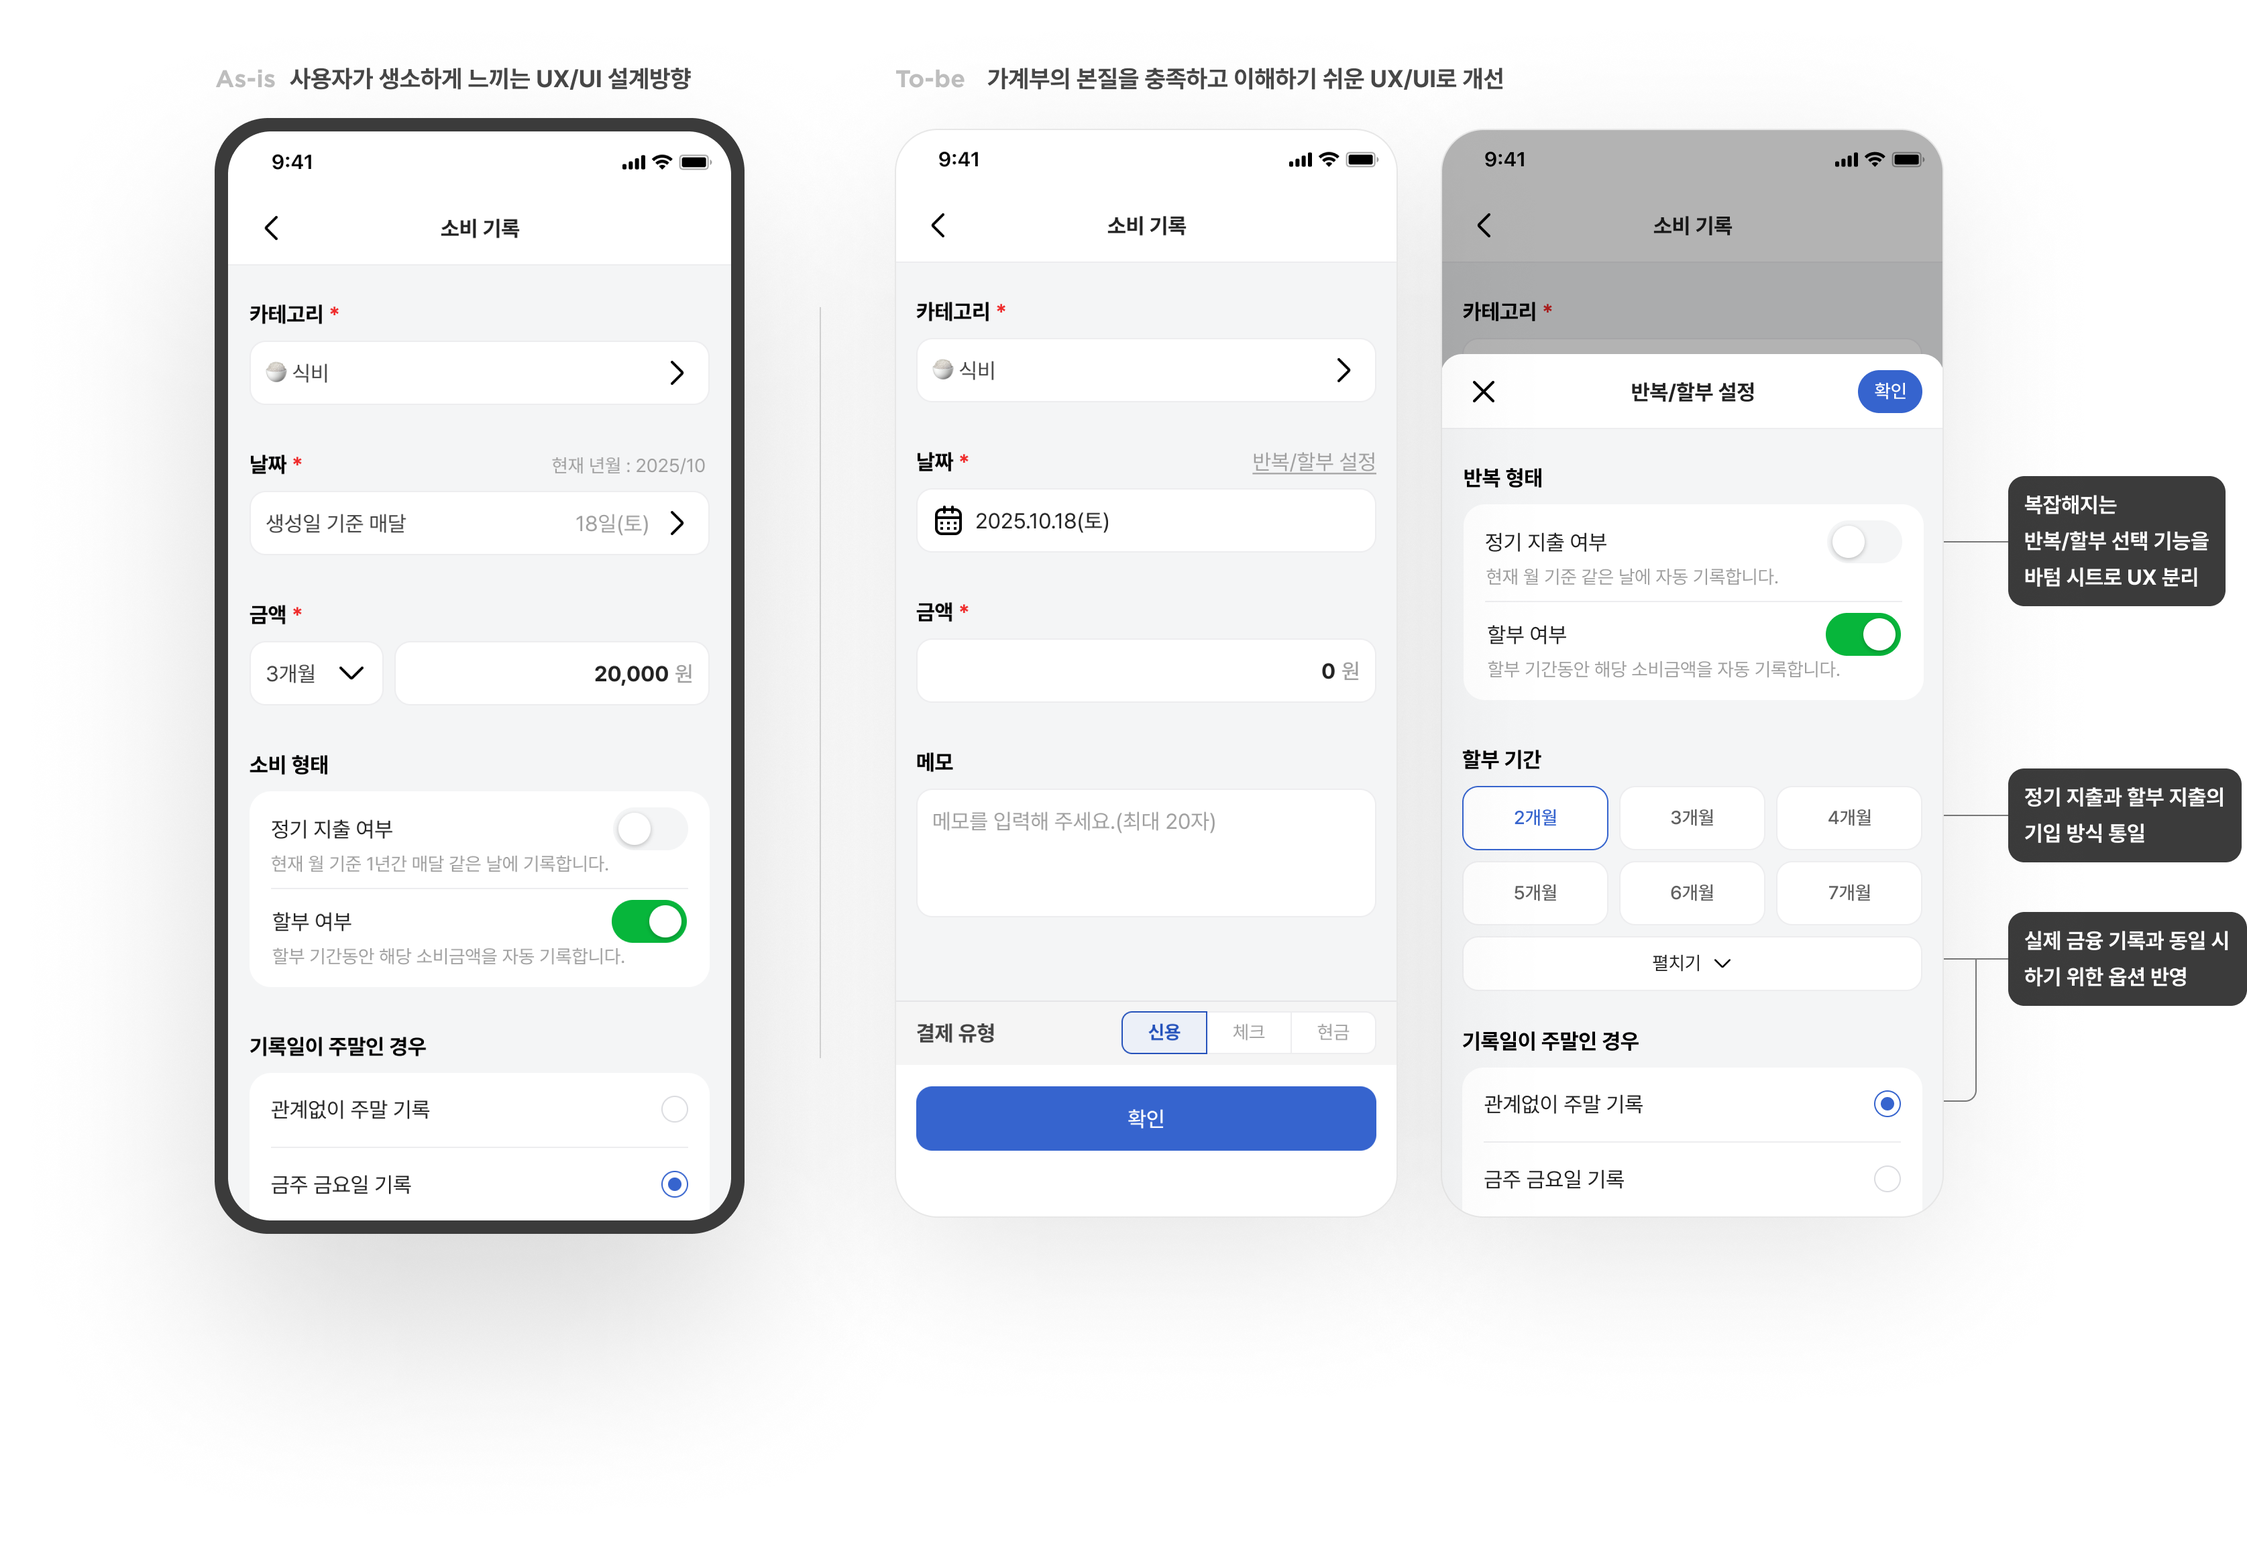
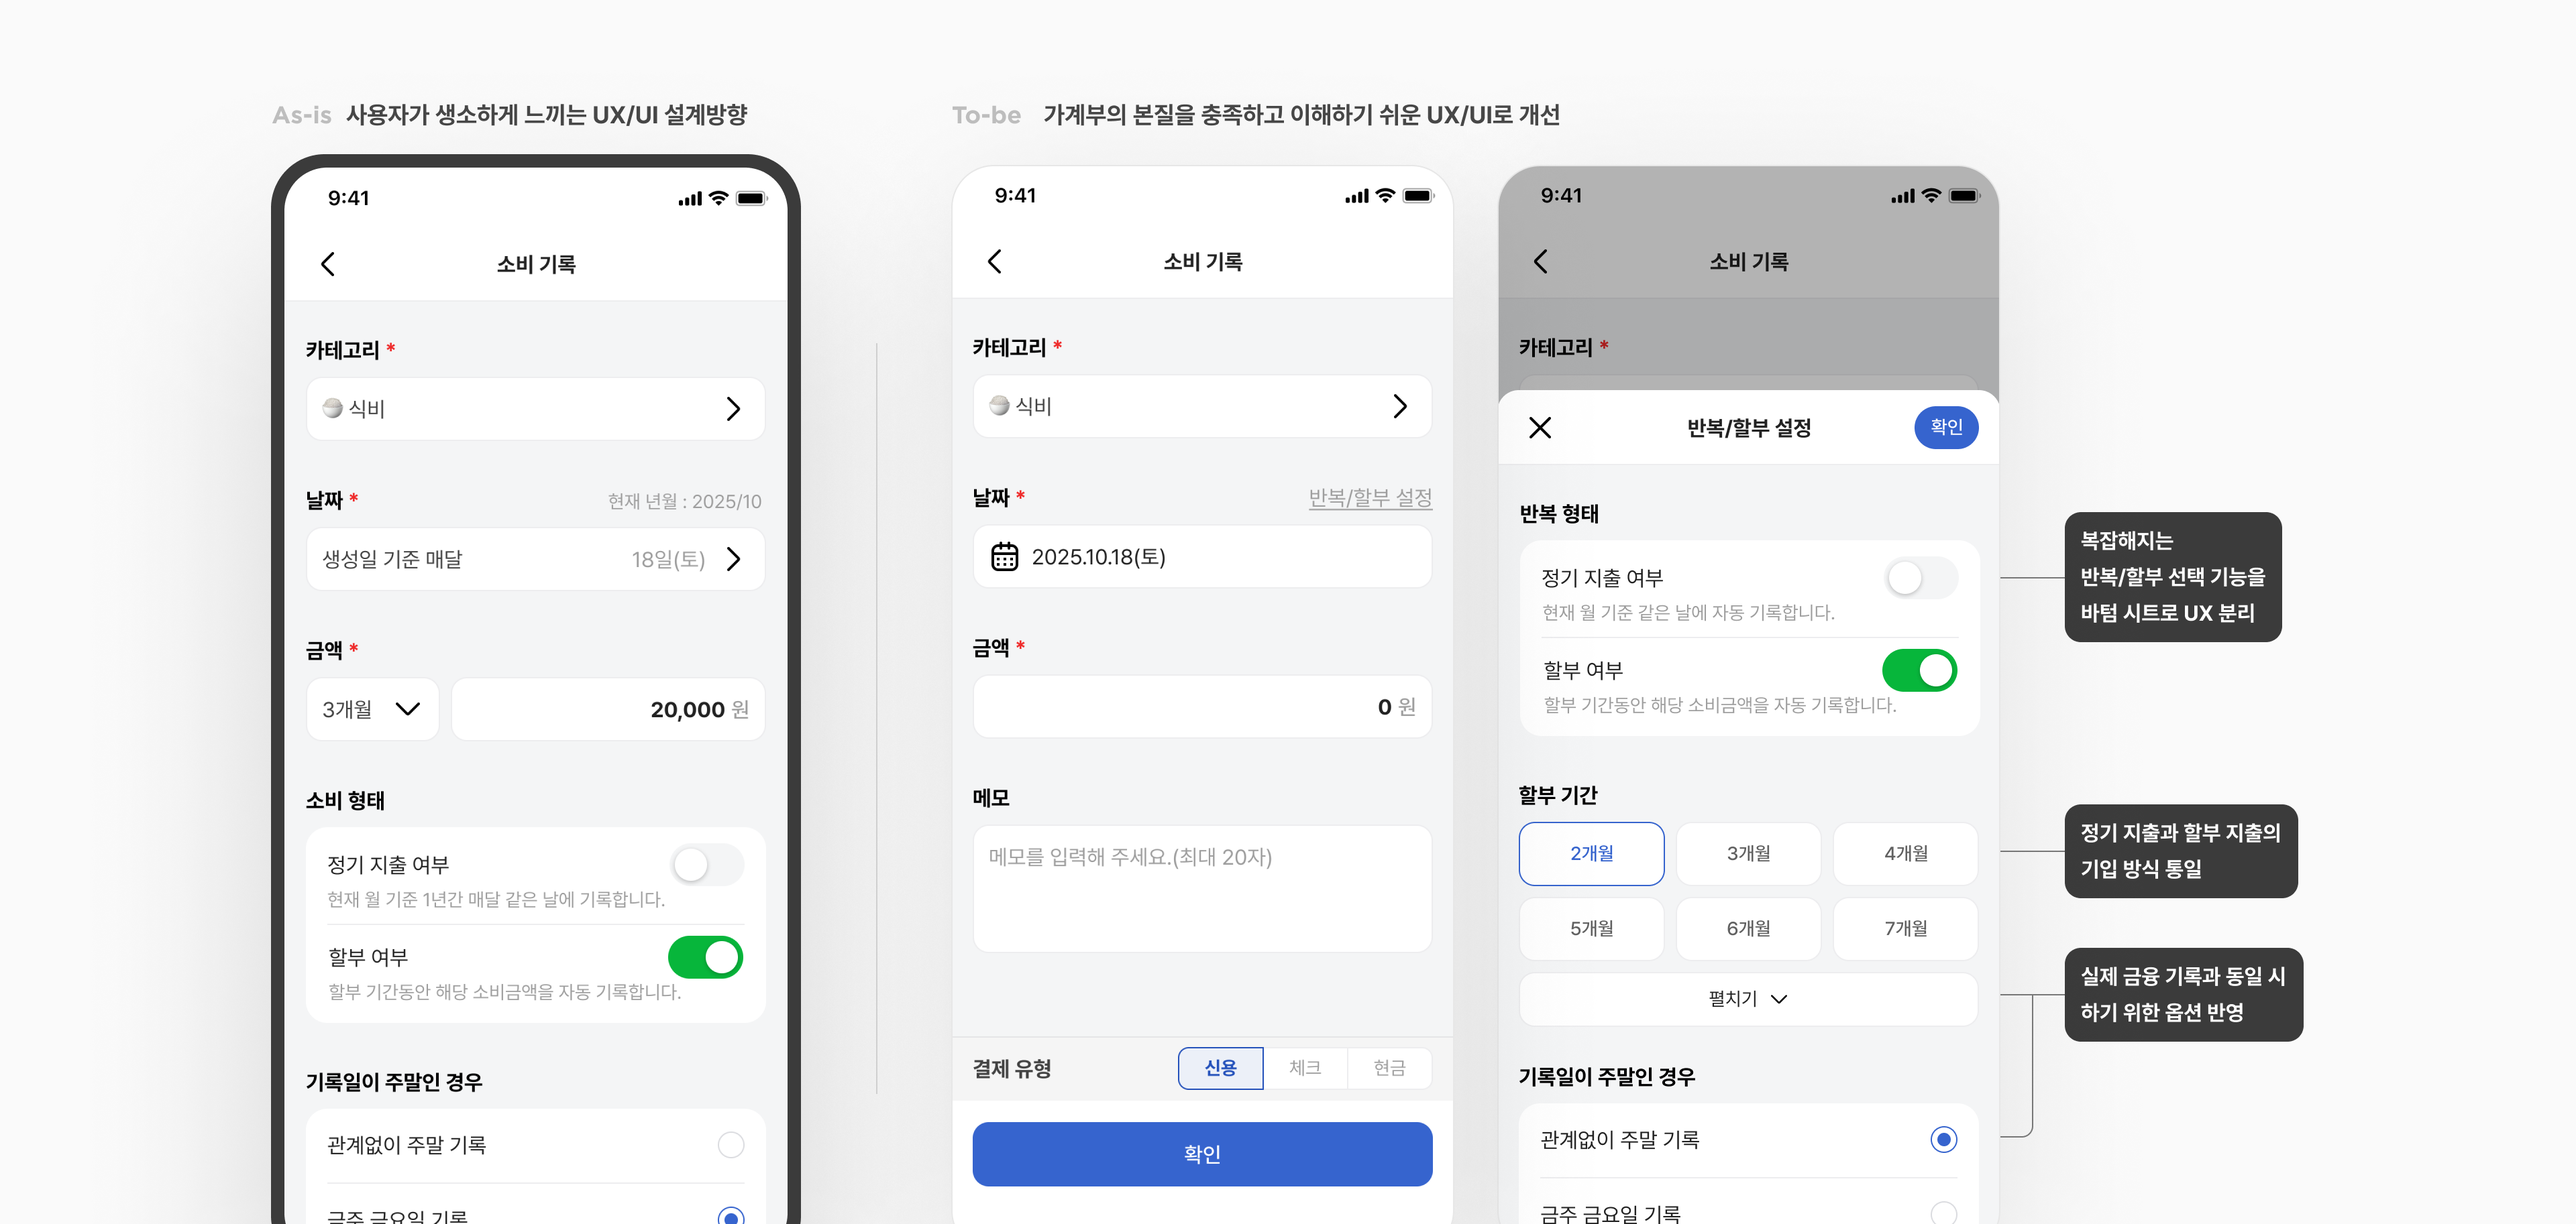
style: 에이월렛 섹션04·06 비주얼 구조 통일
섹션04와 섹션06 이미지를 fullbleed 구조로 통일하고 섹션04/06 배경 톤을 정리해 섹션11과 일관된 비주얼 밴드 패턴으로 맞춘다.

Made-with: Cursor

diff --git a/project-awallet.html b/project-awallet.html
@@ -298,19 +298,17 @@
         </div>
       </div>
 
-      <div class="case-design-dir__inner case-design-dir__inner--visual case-inner case-en-visual-inner">
-        <div class="case-section__visual">
-          <div class="case-section__media">
-            <!-- section04: 합성 단일 에셋 — 교체 시 src 쿼리(v)만 갱신하면 캐시 무효 -->
-            <img
-              src="assets/image/awallet/section04-visual01.png?v=1775719782"
-              alt="A·Wallet 서비스 설계 방향: 소비 현황 인지 UX·UI 화면 합성"
-              width="3840"
-              height="2048"
-              decoding="async"
-              loading="lazy">
-          </div>
-        </div>
+      <div class="case-design-dir__visual case-study-visual-band">
+        <!-- section04: 합성 단일 에셋 — 교체 시 src 쿼리(v)만 갱신하면 캐시 무효 -->
+        <figure class="case-study-fullbleed-figure">
+          <img
+            src="assets/image/awallet/section04-visual01.png?v=20260410193000"
+            alt="A·Wallet 서비스 설계 방향: 소비 현황 인지 UX·UI 화면 합성"
+            width="3840"
+            height="2048"
+            decoding="async"
+            loading="lazy">
+        </figure>
       </div>
     </section>
 
@@ -350,18 +348,16 @@
         </div>
       </div>
 
-      <div class="case-improve__gallery">
-        <div class="case-improve__gallery-scroll">
-          <figure class="case-improve__figure">
-            <img
-              src="assets/image/awallet/section06-visual01.png"
-              width="3350"
-              height="2304"
-              alt="기록 생성 UX/UI 개선: As-is 목업과 To-be 화면·개선 포인트 비교"
-              decoding="async"
-              loading="lazy">
-          </figure>
-        </div>
+      <div class="case-improve__gallery case-study-visual-band">
+        <figure class="case-study-fullbleed-figure">
+          <img
+            src="assets/image/awallet/section06-visual01.png"
+            width="3350"
+            height="2304"
+            alt="기록 생성 UX/UI 개선: As-is 목업과 To-be 화면·개선 포인트 비교"
+            decoding="async"
+            loading="lazy">
+        </figure>
       </div>
     </section>
 

diff --git a/css/style.css b/css/style.css
@@ -1233,12 +1233,6 @@ main.project-page + .site-chrome-footer .closing {
   padding-right: 0;
 }
 
-.case-study .case-improve__gallery-scroll {
-  max-width: none;
-  padding-left: 0;
-  padding-right: 0;
-}
-
 .case-hero {
   max-width: var(--max-content);
   margin: 0 auto;
@@ -2333,6 +2327,10 @@ main.project-page + .site-chrome-footer .closing {
   align-items: stretch;
 }
 
+.case-design-dir__visual.case-study-visual-band {
+  background-color: #fafafa;
+}
+
 /* ---------- Key functions(섹션05) ---------- */
 
 /* 섹션05: 합성 PNG 단일 — 전역 .case-section__visual 배경(#fafafa) 미적용 */
@@ -2358,38 +2356,9 @@ main.project-page + .site-chrome-footer .closing {
   width: 100%;
   margin-left: 0;
   box-sizing: border-box;
-  /* 피그마 section06: 프레임 높이 913 — 밴드 내부 상·하 패딩 24px */
-  padding: 24px 0;
+  padding: 0;
   background: #fafafa;
   overflow: hidden;
-}
-
-.case-improve__gallery-scroll {
-  max-width: 1920px;
-  margin: 0 auto;
-  padding: 0 var(--space-page);
-  box-sizing: border-box;
-  overflow: hidden;
-}
-
-/* 피그마 section06 합성 PNG — 뷰포트 너비에 맞춰 밴드 높이 913/1920로 제한 후 초과분 클립 */
-@media (min-width: 961px) {
-  .case-improve__gallery {
-    max-height: min(913px, calc(100vw * 913 / 1920));
-  }
-}
-
-/* 피그마 section06 프레임 합성 PNG(3350×2304) — 1920 콘텐츠 폭에 맞춰 가변 */
-.case-improve__figure {
-  margin: 0;
-  line-height: 0;
-  overflow: hidden;
-}
-
-.case-improve__figure img {
-  display: block;
-  width: 100%;
-  height: auto;
 }
 
 /* ---------- 상세 기능 설계(섹션07) ---------- */
